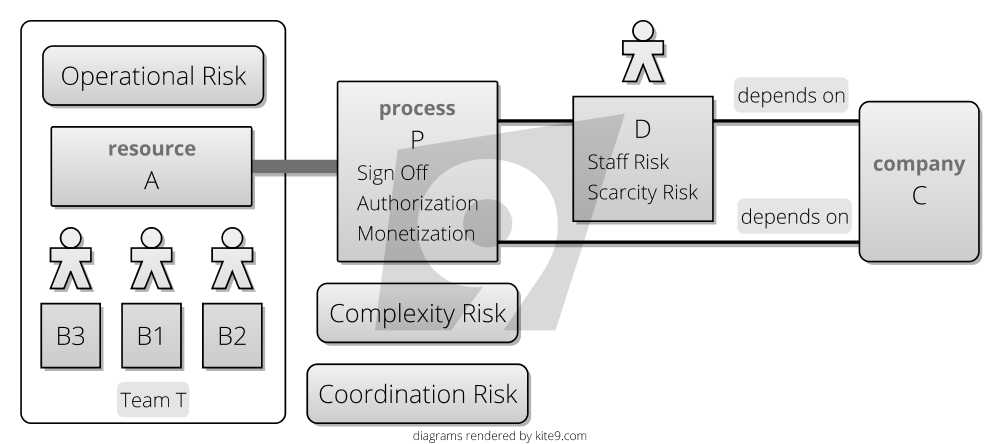
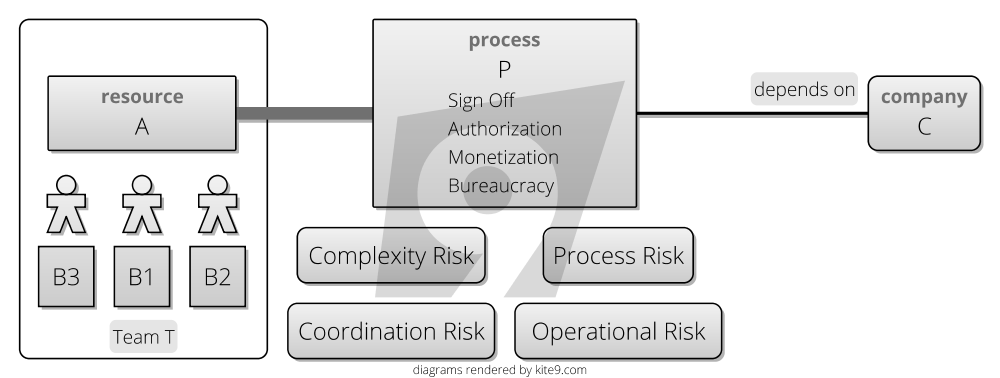
Process Risk
Former-commit-id: 9a960aa1174fd511c5320e46326fe2c8f22b9f7e

diff --git a/menagerie/Process-Risk.md b/menagerie/Process-Risk.md
@@ -43,9 +43,11 @@ Business Processes often arise in response to an unmet need within an organisati
 
 4.   But it's hard to make sure the right clients get access to `A` at the right times, and it's necessary to synchronize access across company `C`.  (A [Coordination Risk](Coordination-Risk) issue.)  `T` reacts and sets up sign-off, authorization or monetary barriers around `A`, increasing the bureauratic load involved in using `A`.  But, also by requiring these things, they move risk *out of* their team. 
 
+![Team T increases bureaucratic load, and pushes Process Risk onto C](images/kite9/process-risk-5.png)
+
 5.  But, there are abuses of `A`: people either misuse it, or use it too much ([Operational Risk](Operational-Risk), and so bureaucratic load increases to match, increasing the amount of _process_ to use `A`.  This corresponds to greater [Process Risk](Process-Risk) for clients in company `C`.
 
-![Person D acts as a middleman for customers needing some variant of `A`](images/kite9/process-risk-5.png)
+![Person D acts as a middleman for customers needing some variant of `A`](images/kite9/process-risk-6.png)
 
 6.  Person `D`, who has experience working with team `T` acts as a middleman for customers requiring some variant of A.  They are able to help navigate the bureaucratic process (deal with Process Risk).  The cycle potentially starts again, except with process risk being dealt with by someone else. 
 
